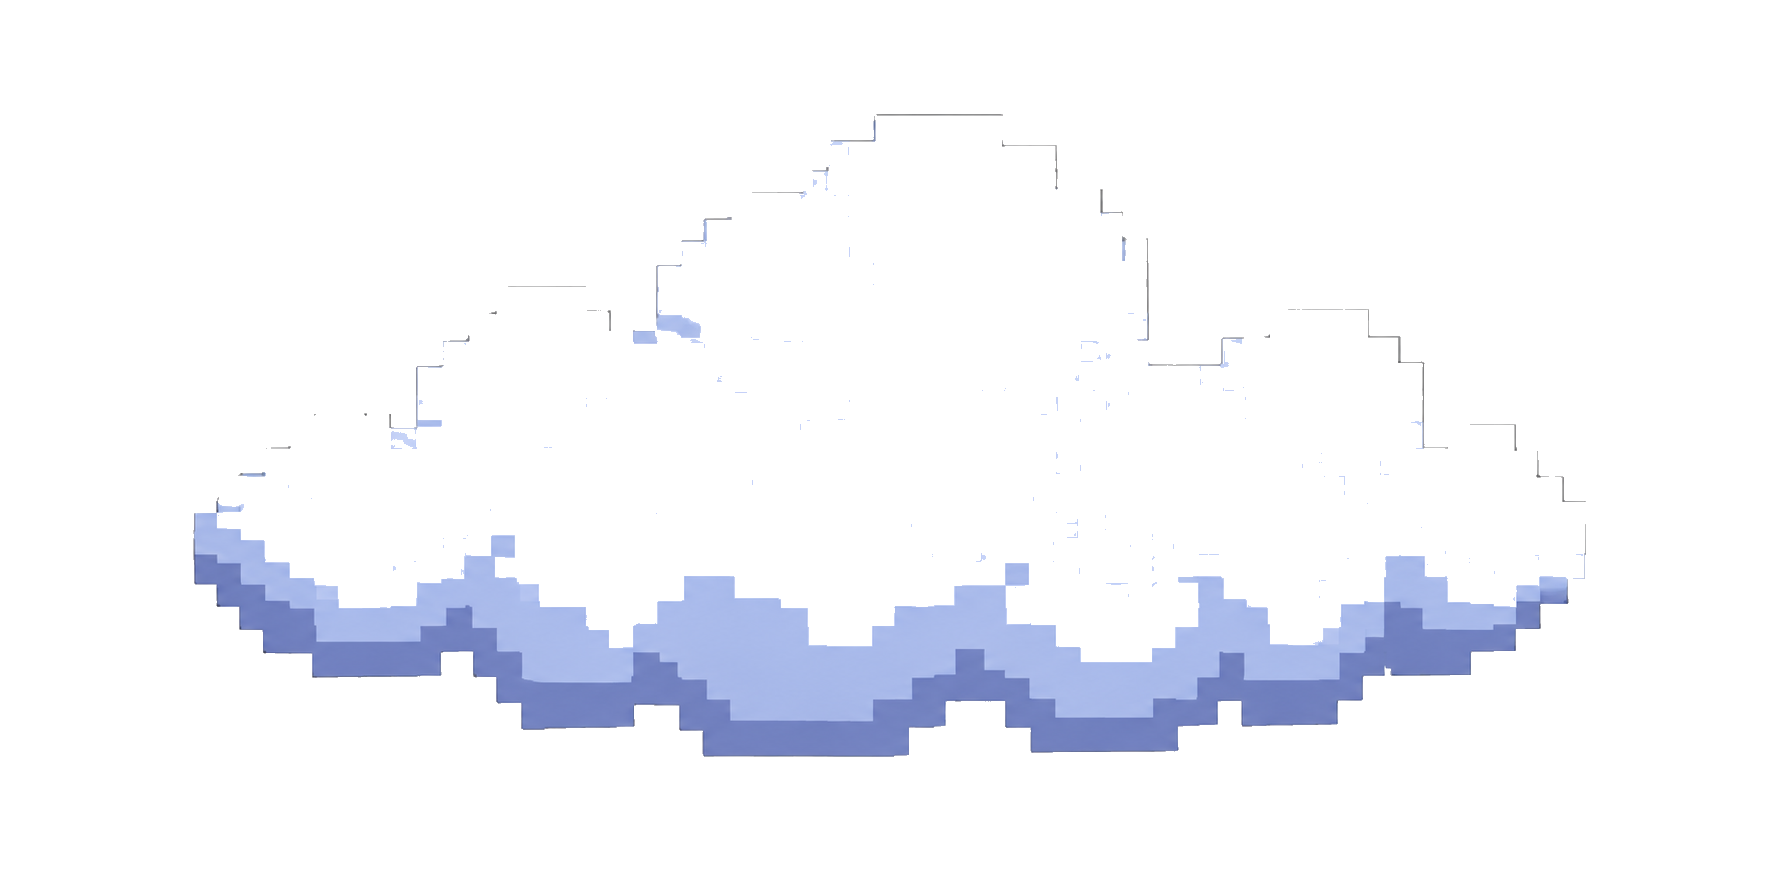
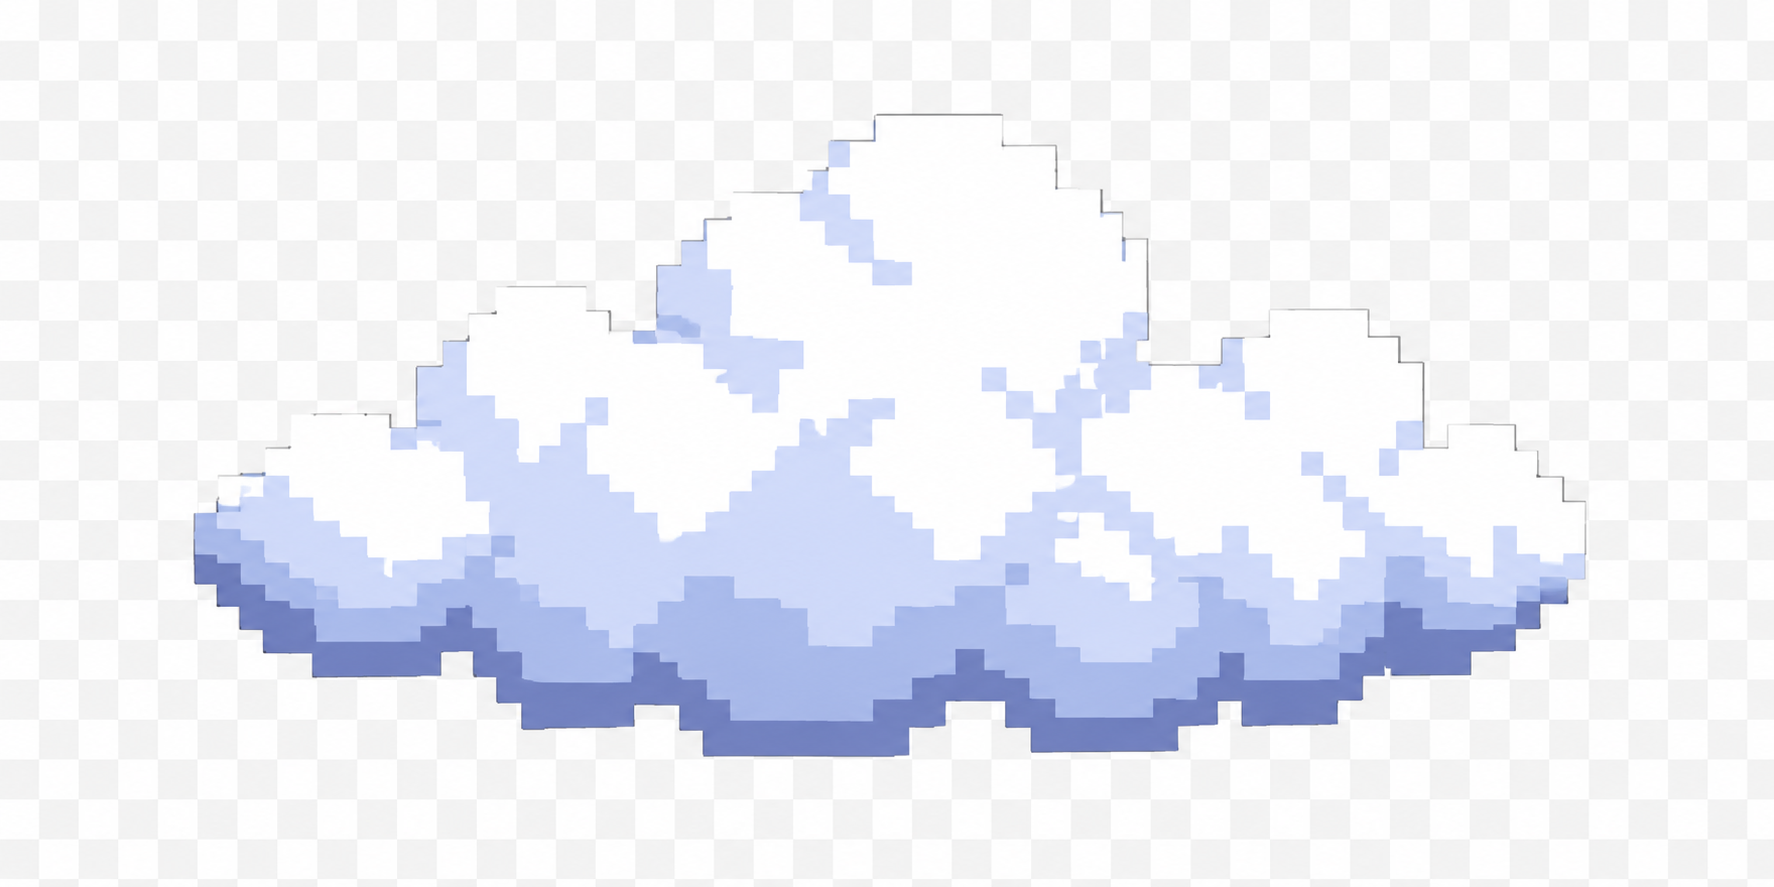
fix(assets): restore 5 de-matte-damaged cloud sprites + fix cloud-large clipping
The dematte-sprites.py BFS (threshold 200) destroyed cloud bodies because
cloud pixels (RGB ~240-254) are indistinguishable from white background by
value alone — the background and cloud bottom both sit in the 242-254 range.

Restored from pre-de-matte commit (6064cc7^):
  background/cloud_large_01.png
  background/cloud_medium_01.png
  background/cloud_small_01.png
  background/clouds/cloud_medium.png
  background/clouds/cloud_small.png

Fixed environment/cloud-large.png: canvas expanded from 256×170 → 261×175
by adding 5px transparent padding to the right and bottom edges (content
was touching the edge with 0px margin; now matches the 5px top/left padding).

dematte-sprites.py hardening:
  - EXCLUDE_PATHS: explicit list of cloud sprites that must never be processed
  - MAX_CLEAR_RATIO = 0.55: if BFS would erase >55% of the image, abort and
    warn (catches any other white-content sprites not in the exclusion list)

diff --git a/scripts/dematte-sprites.py b/scripts/dematte-sprites.py
@@ -30,6 +30,30 @@ BFS_THRESHOLD = 200
 # De-fringe: only matte edge pixels where all channels are ≥ this
 DEFRINGE_MIN = 190
 
+# Safety guard: if BFS would clear more than this fraction of all pixels,
+# the sprite likely has white CONTENT (e.g. clouds) — skip it.
+MAX_CLEAR_RATIO = 0.55
+
+# Sprites whose content is white/near-white and cannot be de-matted by BFS.
+# These are skipped unconditionally to prevent cloud-body destruction.
+EXCLUDE_PATHS: set[str] = {
+    "background/cloud_large_01.png",
+    "background/cloud_medium_01.png",
+    "background/cloud_small_01.png",
+    "background/clouds/cloud_medium.png",
+    "background/clouds/cloud_small.png",
+    # The cloud-01 through cloud-06 sprites are already properly transparent
+    # and don't need processing, but we add them as an extra safeguard.
+    "background/clouds/cloud-01.png",
+    "background/clouds/cloud-02.png",
+    "background/clouds/cloud-03.png",
+    "background/clouds/cloud-04.png",
+    "background/clouds/cloud-05.png",
+    "background/clouds/cloud-06.png",
+    "background/clouds/cloud_large.png",
+    "environment/cloud-large.png",
+}
+
 
 # ---------------------------------------------------------------------------
 # Core algorithm
@@ -145,6 +169,11 @@ def _has_scipy() -> bool:
 
 def process_image(path: Path) -> bool:
     """Return True if the file was modified."""
+    # Hard exclusion list — sprites with white content that BFS would destroy.
+    rel = str(path.relative_to(ASSETS_DIR))
+    if rel in EXCLUDE_PATHS:
+        return False
+
     img = Image.open(path).convert("RGBA")
     arr = np.array(img, dtype=np.uint8)
 
@@ -153,6 +182,19 @@ def process_image(path: Path) -> bool:
 
     cleared = _bfs_fill(arr)
     if not cleared.any():
+        return False
+
+    # Safety guard: if BFS cleared more than MAX_CLEAR_RATIO of the image, the
+    # sprite likely has white content (e.g. a cloud body). Abort and leave the
+    # file untouched — add it to EXCLUDE_PATHS if you need to suppress the warning.
+    total_pixels = arr.shape[0] * arr.shape[1]
+    clear_ratio = cleared.sum() / total_pixels
+    if clear_ratio > MAX_CLEAR_RATIO:
+        print(
+            f"  SKIP {rel}: BFS would clear {clear_ratio:.0%} of pixels "
+            f"(>{MAX_CLEAR_RATIO:.0%} safety limit — likely white content)",
+            file=sys.stderr,
+        )
         return False
 
     _defringe(arr, cleared)
